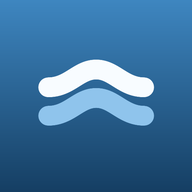
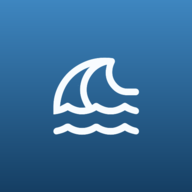
Ship the wave mark and cut it to the safe circle
The two bands read as an equals sign at launcher size, and the tsunami
alternate kept as their backup overflowed: at its original scale the ink spans
55x50, whose corners fall outside the 36dp circle a round mask keeps, so a
launcher clipped the crest.

Adopt the wave at 0.06 scale instead — 48x43 of ink, centred, with its furthest
corner at radius 32.7 against the 33dp Android guarantees. The themed
monochrome layer and the branding PNGs follow the same mark, and the bands move
into alternates as the backup.

The note about adopting a Material glyph was wrong about the offset: that grid's
ink sits between -840 and -120, so centring wants +480 * scale, not +960.

Version 0.2.1 (versionCode 3).

Changed region(s): [[0.1875, 0.2812, 0.8125, 0.7188]]

diff --git a/branding/alternates/README.md b/branding/alternates/README.md
@@ -2,15 +2,22 @@
 
 Kept as backups for the shipped icon in `../icon-source.svg`.
 
+## tide-bands.svg
+
+Two round-capped tide bands, stroke rather than outline so they stay readable at
+24px. Shipped through 0.2.0; quieter than the wave but reads as an equals sign
+at small sizes.
+
 ## tsunami-line-art.svg
 
-The Material Symbols `tsunami` glyph on the Tide gradient — a breaking wave in
-line art, busier than the shipped bands but more literal.
+The source of the shipped mark: the Material Symbols `tsunami` glyph on the Tide
+gradient. Kept here at its original scale, which overflows the 66dp circle a
+launcher mask guarantees — the shipped copy is scaled to 48x43 instead.
 
 Source: [Material Symbols](https://fonts.google.com/icons), licensed under the
 Apache License 2.0. Shipping it requires no attribution in the app, but the
 licence should be noted here.
 
-To adopt it, convert the glyph path into `ic_launcher_foreground.xml`. Note the
-Material grid is `0 -960 960 960`, so the path needs a `translateY` of `+960 *
-scale` on top of the usual centring.
+The Material grid is `0 -960 960 960`, so adopting any glyph from it needs a
+`translateY` of `+480 * scale` on top of the usual centring, not `+960 * scale`:
+the ink sits between -840 and -120, not against the top of the box.
